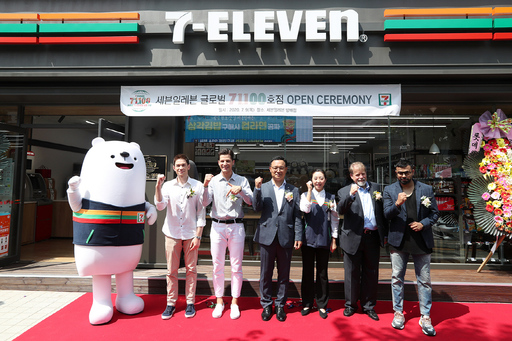
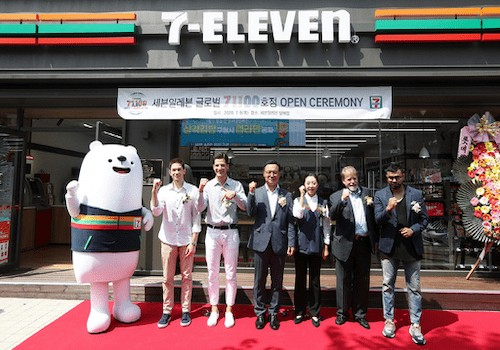
8/25

diff --git a/www/sub1/sub1_3.html b/www/sub1/sub1_3.html
@@ -518,14 +518,14 @@
 								<li>
 									<p>2018년 인공지능 결제 로봇 '브니' 도입</p>
 									<img
-										src="./images/content3/history5.png"
+										src="./images/content3/history5.jpg"
 										alt=" 2018.08 핸드페이 탑재 인공지능 결제 로봇 '브니' 도입" >
 								</li>
 
 								<li>
 									<p>2017년 최첨단 스마트 편의점 '시그니처' 오픈</p>
 									<img
-										src="./images/content3/history6.png"
+										src="./images/content3/history6.jpg"
 										alt="2017.05 최첨단 스마트 편의점 '시그니처' 오픈" >
 								</li>
 
@@ -546,14 +546,14 @@
 								<li>
 									<p>2014년 신개념 푸드스토어 도시락카페 1호점 오픈</p>
 									<img
-										src="./images/content3/history9.png"
+										src="./images/content3/history9.jpg"
 										alt="2014.11 신개념 푸드스토어 도시락카페 1호점 'KT강남점' 오픈" >
 								</li>
 
 								<li>
 									<p>2014년 인천아시안게임 공식편의점 선정</p>
 									<img
-										src="./images/content3/history10.png"
+										src="./images/content3/history10.jpg"
 										alt="2014.09 2014 인천아시안게임 공식편의점 선정" >
 								</li>
 
@@ -571,25 +571,25 @@
 								<li>
 									<p>2023년 업계 최초로 서울시와 동행스토어 운영</p>
 									<img
-										src="./images/content3/history12.png"
+										src="./images/content3/history12.jpg"
 										alt=" 2023년 업계 최초로 서울시와 동행스토어 운영" >
 								</li>
 								<li>
 									<p>2022년 롯데월드타워 광장 스마일링 포켓몬 플레이존 조성</p>
 									<img
-										src="./images/content3/history13.png"
+										src="./images/content3/history13.jpg"
 										alt=" 2022.08 - 롯데월드타워 광장 스마일링 포켓몬 플레이존 조성" >
 								</li>
 								<li>
 									<p>2021년 미래 10년을 위한 2030 ESG 경영 선포</p>
 									<img
-										src="./images/content3/history14.png"
+										src="./images/content3/history14.jpg"
 										alt="2021.01 - 2030 ESG 경영 선포 + 친환경 정책들" >
 								</li>
 								<li>
 									<p>2020년 세계최초 고객동선인식(ETS) 기반 편의점 오픈</p>
 									<img
-										src="./images/content3/history15.png"
+										src="./images/content3/history15.jpg"
 										alt=" 2020.07 - 세계 최초 고객동선인식(ETS) 기반 스마트편의점 오픈" >
 								</li>
 								<li>
